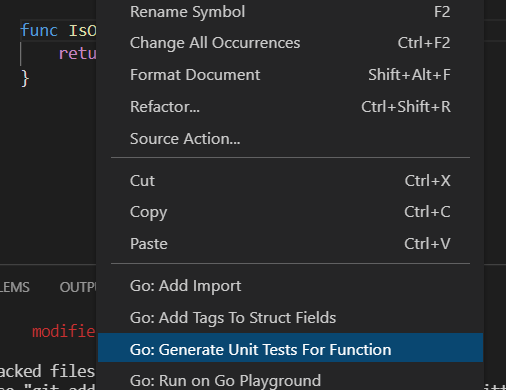
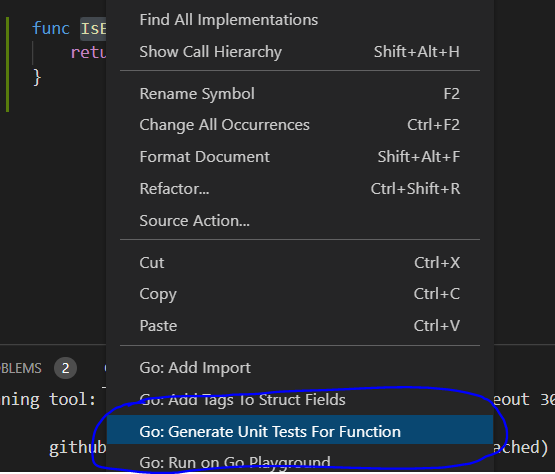
Continue blog 0 entries

diff --git a/templates/blog-0-en.template.html b/templates/blog-0-en.template.html
@@ -2,10 +2,12 @@
 
 <div class="p-5">
     <h1>Golang Unit Test Tutorial for Beginner using VSCode</h1>
+    <hr>
     <p>
         Unit test is one of the most essentials part in Software Engineering. It's prevent your stable code from breaking, allow you to test your function seamlessly, and deepen your code knowledge. For big company, high unit test coverage is a must have for deployment pre-requisite. <br>Disclaimer: This tutorial is <b>beginner only</b> and don't expect any advanced technique.
     </p>
-
+    <br>
+    <br>
     <h2>Getting Started</h2>
     <p>Before we start, make sure you have installed latest <a href="https://golang.org/doc/install">Golang</a> and <a href="https://code.visualstudio.com/Download">VSCode</a> in your machine</p>
     <p>We use this setup during this tutorial:</p>
@@ -30,7 +32,8 @@
         </p>
     </div>
     <p>Next, install VSCode Golang Extension</p>
-    <img src="/assets/img/go-package.jpg" alt="go-package.jpg">
+    <img src="/assets/img/go-package.jpg" alt="go-package.jpg" style="max-width: 60vw;">
+    <br>
     <br>
     <br>
     <h2>Write Some Code</h2>
@@ -38,13 +41,13 @@
     <p>Write a function that you want to generate unit test for. For example</p>
     <div class="card p-2 bg-light">
         <textarea name="" id="" cols="30" rows="4" disabled>
-            func IsOdd(val int) bool {
+            func IsEven(val int) bool {
                 return val%2 == 0
             } 
         </textarea>
     </div>
     <br>
-    <p>Right click on <b>IsOdd</b> and you will see a list of options, choose <b>Go: Generate Unit Tests For Function</b></p>
+    <p>Right click on <b>IsEven</b> and you will see a list of options, choose <b>Go: Generate Unit Tests For Function</b></p>
     <img src="/assets/img/blog-0-1.PNG" alt="Go: Generate Unit Tests For Function">
     <br>
     <p>A new file will be generated with name <b>app_test.go</b></p>
@@ -54,7 +57,7 @@
 
             import "testing"
 
-            func TestIsOdd(t *testing.T) {
+            func TestIsEven(t *testing.T) {
                 type args struct {
                     val int
                 }
@@ -67,15 +70,53 @@
                 }
                 for _, tt := range tests {
                     t.Run(tt.name, func(t *testing.T) {
-                        if got := IsOdd(tt.args.val); got != tt.want {
-                            t.Errorf("IsOdd() = %v, want %v", got, tt.want)
+                        if got := IsEven(tt.args.val); got != tt.want {
+                            t.Errorf("IsEven() = %v, want %v", got, tt.want)
                         }
                     })
                 }
             } 
         </textarea>
     </div>
+    <br>
+    <p>Now, add several test case inside <b>// TODO: Add test cases.</b></p>
+    <div class="card p-2 bg-light">
+        <textarea name="" id="" cols="30" rows="10" disabled>
+            func TestIsEven(t *testing.T) {
+                type args struct {
+                    val int
+                }
+                tests := []struct {
+                    name string
+                    args args
+                    want bool
+                }{
+                    {"IsEvenTrue", args{val: 10}, true},
+                    {"IsEvenFalse", args{val: 1}, false},
+                }
+                for _, tt := range tests {
+                    t.Run(tt.name, func(t *testing.T) {
+                        if got := IsEven(tt.args.val); got != tt.want {
+                            t.Errorf("IsEven() = %v, want %v", got, tt.want)
+                        }
+                    })
+                }
+            }
+        </textarea>
+    </div>
+    <br>
+    <br>
 
+    <h3>Running Unit Test</h3>
+    <p>You can run your unit test with <b>go test [package path]</b>, or simply use <b>run test</b> above <b>TestIsEven</b></p>
+    <img src="/assets/img/blog-0-2.PNG" alt="blog-0-2.PNG" style="max-width: 60vw;">
+    <br>
+    <br>
+    <p><b>Voila!</b> you have created your first unit test.</p>
+    <br>
+    <br>
+
+    <a href="/">Go Home</a>
 </div>
 
 {{ end }}

diff --git a/templates/get_home2_index.template.html b/templates/get_home2_index.template.html
@@ -203,7 +203,7 @@ https://templatemo.com/tm-464-ultra-profile
                     <div class="blogs-sections cursor-pointer" style="margin: 0; width: 100%; display: flex;">
                         <div class="portfolio-card three" id="blog-0">
                             <br>
-                            <h4>Golang Unit Test Tutorial for Beginner Using VSCode</h4>
+                            <h4 style="text-decoration: underline;">Golang Unit Test Tutorial for Beginner Using VSCode</h4>
                             <br>
                         </div>
                     </div>

diff --git a/commons/functions_test.go b/commons/functions_test.go
@@ -1,0 +1,24 @@
+package commons
+
+import "testing"
+
+func TestIsEven(t *testing.T) {
+	type args struct {
+		val int
+	}
+	tests := []struct {
+		name string
+		args args
+		want bool
+	}{
+		{"IsEvenTrue", args{val: 10}, true},
+		{"IsEvenFalse", args{val: 1}, false},
+	}
+	for _, tt := range tests {
+		t.Run(tt.name, func(t *testing.T) {
+			if got := IsEven(tt.args.val); got != tt.want {
+				t.Errorf("IsEven() = %v, want %v", got, tt.want)
+			}
+		})
+	}
+}

diff --git a/commons/functions.go b/commons/functions.go
@@ -72,3 +72,7 @@ func Middleware(next httprouter.Handle) httprouter.Handle {
 
 	}
 }
+
+func IsEven(val int) bool {
+	return val%2 == 0
+}
